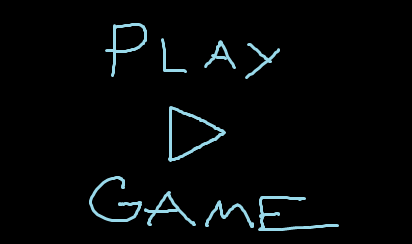
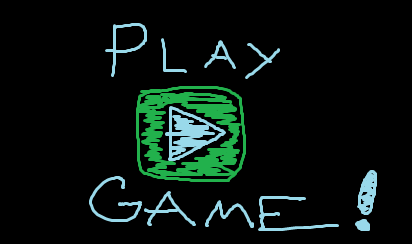
add new video preview images

Changed region(s): [[0.3204, 0.3443, 0.6117, 0.7459], [0.8447, 0.6885, 0.932, 0.9467]]

diff --git a/index.html b/index.html
@@ -37,19 +37,24 @@
 </section>
 
 <section>
-<h2>Currently Working on...</h2>
-<p>a first-person ARPG with the Godot engine.</p>
-
-<video controls preload="none" src="vid/WhateverDebug.mp4" type="video/mp4" poster="img/video.png"></video>
+	<h2>Currently Working on...</h2>
+	<p>a first-person ARPG with the Godot engine.</p>
+	<video controls preload="none" src="vid/WhateverDebug.mp4" type="video/mp4" poster="img/video.png"></video>
 </section>
 
 <section>
-	<h2>Pathtrace Game</h2>
+	<h2>Pathtracer Game</h2>
 	<p>Pathtracer tutorial converted into a game, playable on shadertoy: <a href="https://www.shadertoy.com/view/dlGcRR">https://www.shadertoy.com/view/dlGcRR</a></p>
-	<video controls preload="none" src="vid/PathtracerGame.mp4" type="video/mp4" poster="img/video.png"></video>
-	<div class="VeryLazyLoadingFrame" data-src="https://www.shadertoy.com/embed/dlGcRR?gui=false&paused=false&t=10&muted=false" data-width="100%" data-height="360">
-		<img class="MyFramePlaceholder" src="img/PlayGame.png" width="100%" height="360" />
+	<video controls preload="none" src="vid/PathtracerGame.mp4" type="video/mp4" poster="img/pathtracer_game_video.png"></video>
+	<div class="VeryLazyLoadingFrame" data-src="https://www.shadertoy.com/embed/dlGcRR?gui=false&paused=false&t=10&muted=false" data-width="100%" data-height="500">
+		<img class="MyFramePlaceholder" src="img/PlayGame.png" width="100%" height="500" />
 	</div>
+</section>
+
+<section>
+	<h2>Run of the Mill</h2>
+	<p>Neat game about harvesting wheat</p>
+	<iframe loading="lazy" src="https://itch.io/embed/1816243" width="552" height="167" frameborder="0"><a href="https://synack.itch.io/run-of-the-mill">Run of the Mill by fractalbach</a></iframe>
 </section>
 
 <section>
@@ -72,8 +77,8 @@
 	<img src="img/tilegame_1.png" class="main-img"/>
 	<p class="centered"><a href="https://github.com/tilegame/">Overview of Tilegame</a></p>
 
-	<div class="VeryLazyLoadingFrame" data-src="https://tilegame.github.io/TileExperiments/" data-width="100%" data-height="600">
-		<img class="MyFramePlaceholder" src="img/PlayGame.png" width="100%" height="600" />
+	<div class="VeryLazyLoadingFrame" data-src="https://tilegame.github.io/TileExperiments/" data-width="100%" data-height="800">
+		<img class="MyFramePlaceholder" src="img/PlayGame.png" width="100%" height="800" style="object-fit: contain;"/>
 	</div>
 
 </section>
@@ -82,16 +87,16 @@
 	<h2>Balloon Jump Game</h2>
 	<p>I made a game where you go up by grabbing balloons.</p>
 	<img src="img/balloon1.gif" class="main-img"/>
-	<div class="VeryLazyLoadingFrame" data-src="https://fractalbach.github.io/float-up/" data-width="100%" data-height="600">
-		<img class="MyFramePlaceholder" src="img/PlayGame.png" width="100%" height="600" />
+	<div class="VeryLazyLoadingFrame" data-src="https://fractalbach.github.io/float-up/" data-width="100%" data-height="500">
+		<img class="MyFramePlaceholder" src="img/PlayGame.png" width="100%" height="500" />
 	</div>
 </section>
 
 <section>
 	<h2>Dot Path Game</h2>
 	<p>A browser game made with SVG</p>
-	<div class="VeryLazyLoadingFrame" data-src="https://fractalbach.github.io/DotPathGame/" data-width="100%" data-height="600">
-		<img class="MyFramePlaceholder" src="img/PlayGame.png" width="100%" height="600" />
+	<div class="VeryLazyLoadingFrame" data-src="https://fractalbach.github.io/DotPathGame/" data-width="100%" data-height="500">
+		<img class="MyFramePlaceholder" src="img/PlayGame.png" width="100%" height="500" />
 	</div>
 </section>
 
@@ -108,14 +113,14 @@ function LoadFrame(event) {
 	let el = event.currentTarget;
 	el.removeEventListener("click", LoadFrame, false);
 
-	let frame = document.createElement("iframe");
-	frame.setAttribute("src", el.getAttribute("data-src"));
-	frame.setAttribute("width", el.getAttribute("data-width"));
-	frame.setAttribute("height", el.getAttribute("data-height"));
-	el.appendChild(frame);
-
-	let img = el.querySelector(":scope > .MyFramePlaceholder");
+	let img = el.querySelector(":scope > img");
 	img.style.display = "none";
+
+	let frame = document.createElement("iframe");
+	frame.setAttribute("src", el.dataset.src);
+	frame.setAttribute("width", img.getAttribute("width"));
+	frame.setAttribute("height", img.getAttribute("height"));
+	el.appendChild(frame);
 
 	let button = document.createElement("button");
 	button.innerText = "Close Game";

diff --git a/css/new.css b/css/new.css
@@ -75,10 +75,9 @@ section {
 	background: #222;
 	padding: 1em;
 	padding-top: 0;
-	margin: 1em auto;
 	max-width: 50em;
-	margin: 1em 1%;
-	border: solid 1px #2a2626;
+	margin: 1em 0% 2em 0%;
+	border: solid 1px #524c4c;
 	/* box-shadow: 1px 5px 10px 1px #333; */
 }
 
@@ -148,7 +147,8 @@ video {
 
 .MyFramePlaceholder {
 	border: solid 1px #bbb;
-	background: rgba(135, 206, 250);
+	background: rgb(0, 0, 0);
+	object-fit: contain;
 }
 
 .MyFramePlaceholder:hover {
